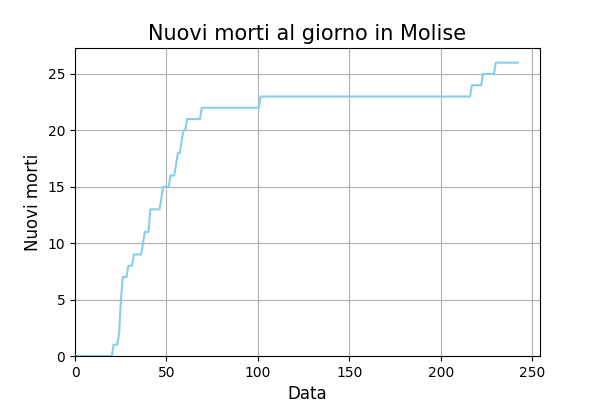
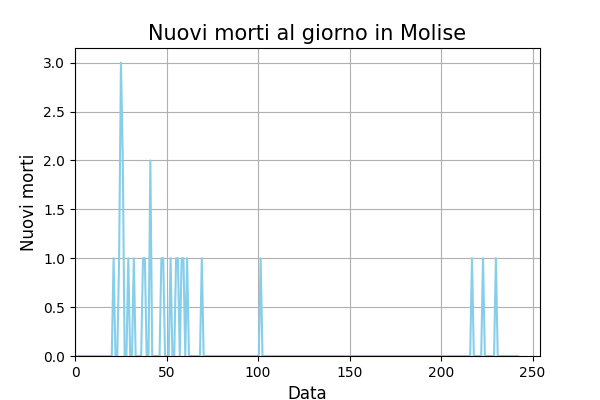
Adds the differences

diff --git a/plot/tamponi.py b/plot/tamponi.py
@@ -1,0 +1,37 @@
+import pandas as pd
+import matplotlib.pyplot as plt
+import numpy as np
+
+def tamponi():
+    dati_regione = pd.read_csv("data/dati_regioni.csv", sep = ",")
+    raggruppati = dati_regione.groupby('data').sum().reset_index()
+    date = np.linspace(0,len(raggruppati['data'].unique()), len(raggruppati))
+
+    fig = plt.figure(figsize = (6,4))
+    plt.plot(date, raggruppati['tamponi'].diff(), color = "skyblue", alpha = 1)
+    plt.xlim(left = 0)
+    plt.ylim(bottom = 0)
+    plt.xlabel("Data", size = 12)
+    plt.ylabel("Nuovi tamponi", size = 12)
+    plt.xticks(size = 10)
+    plt.yticks(size = 10)
+    plt.title("Nuovi tamponi al giorno", size = 15)
+    plt.grid()
+    fig.savefig("pics/tamponi.png", dpi = 100)
+
+    ## Provo a raggruppare per regione e a stamprarli anche per regione quindi vanno messi dentro un for e bisogna fare un ciclo
+
+    for regione in dati_regione['denominazione_regione'].unique():
+        per_regioni = dati_regione.loc[dati_regione['denominazione_regione'] == regione]['tamponi']
+        fig = plt.figure(figsize = (6,4))
+        plt.plot(date, per_regioni.diff(), color = "skyblue", alpha = 1)
+        plt.xlim(left = 0)
+        plt.ylim(bottom = 0)
+        plt.xlabel("Data", size = 12)
+        plt.ylabel("Nuovi tamponi", size = 12)
+        plt.xticks(size = 10)
+        plt.yticks(size = 10)
+        plt.title("Nuovi tamponi al giorno in {}".format(regione), size = 15)
+        plt.grid()
+        plt.show()
+        fig.savefig("pics/tamponi_{}.png".format(regione), dpi = 100)

diff --git a/plot/morti.py b/plot/morti.py
@@ -9,7 +9,7 @@ def morti():
     date = np.linspace(0,len(raggruppati['data'].unique()), len(raggruppati))
 
     plt.figure(figsize = (6,4))
-    plt.plot(date, raggruppati['deceduti'], color = "skyblue", alpha = 1)
+    plt.plot(date, raggruppati['deceduti'].diff(), color = "skyblue", alpha = 1)
     plt.xlim(left = 0)
     plt.ylim(bottom = 0)
     plt.xlabel("Data", size = 12)
@@ -23,7 +23,7 @@ def morti():
     for regione in dati_regione['denominazione_regione'].unique():
         per_regioni = dati_regione.loc[dati_regione['denominazione_regione'] == regione]['deceduti']
         fig = plt.figure(figsize = (6,4))
-        plt.plot(date, per_regioni, color = "skyblue", alpha = 1)
+        plt.plot(date, per_regioni.diff(), color = "skyblue", alpha = 1)
         plt.xlim(left = 0)
         plt.ylim(bottom = 0)
         plt.xlabel("Data", size = 12)

diff --git a/main.py b/main.py
@@ -2,6 +2,7 @@ from preprocessing.scraper import scrape
 from preprocessing.fixer_data import fix_datasets
 from plot.casi import casi
 from plot.morti import morti
+from plot.tamponi import tamponi
 
 if __name__ == "__main__":
     print("SCRAPING UPDATED DATASETS ...")
@@ -12,4 +13,5 @@ if __name__ == "__main__":
     print("All done!")
     #casi()
     morti()
+    #tamponi()
     

diff --git a/plot/casi.py b/plot/casi.py
@@ -15,7 +15,7 @@ def casi():
     plt.ylabel("Nuovi casi", size = 12)
     plt.xticks(size = 10)
     plt.yticks(size = 10)
-    plt.title("New cases per day", size = 15)
+    plt.title("Nuovi casi al giorno", size = 15)
     plt.grid()
     fig.savefig("pics/nuovi_casi.png", dpi = 100)
 
